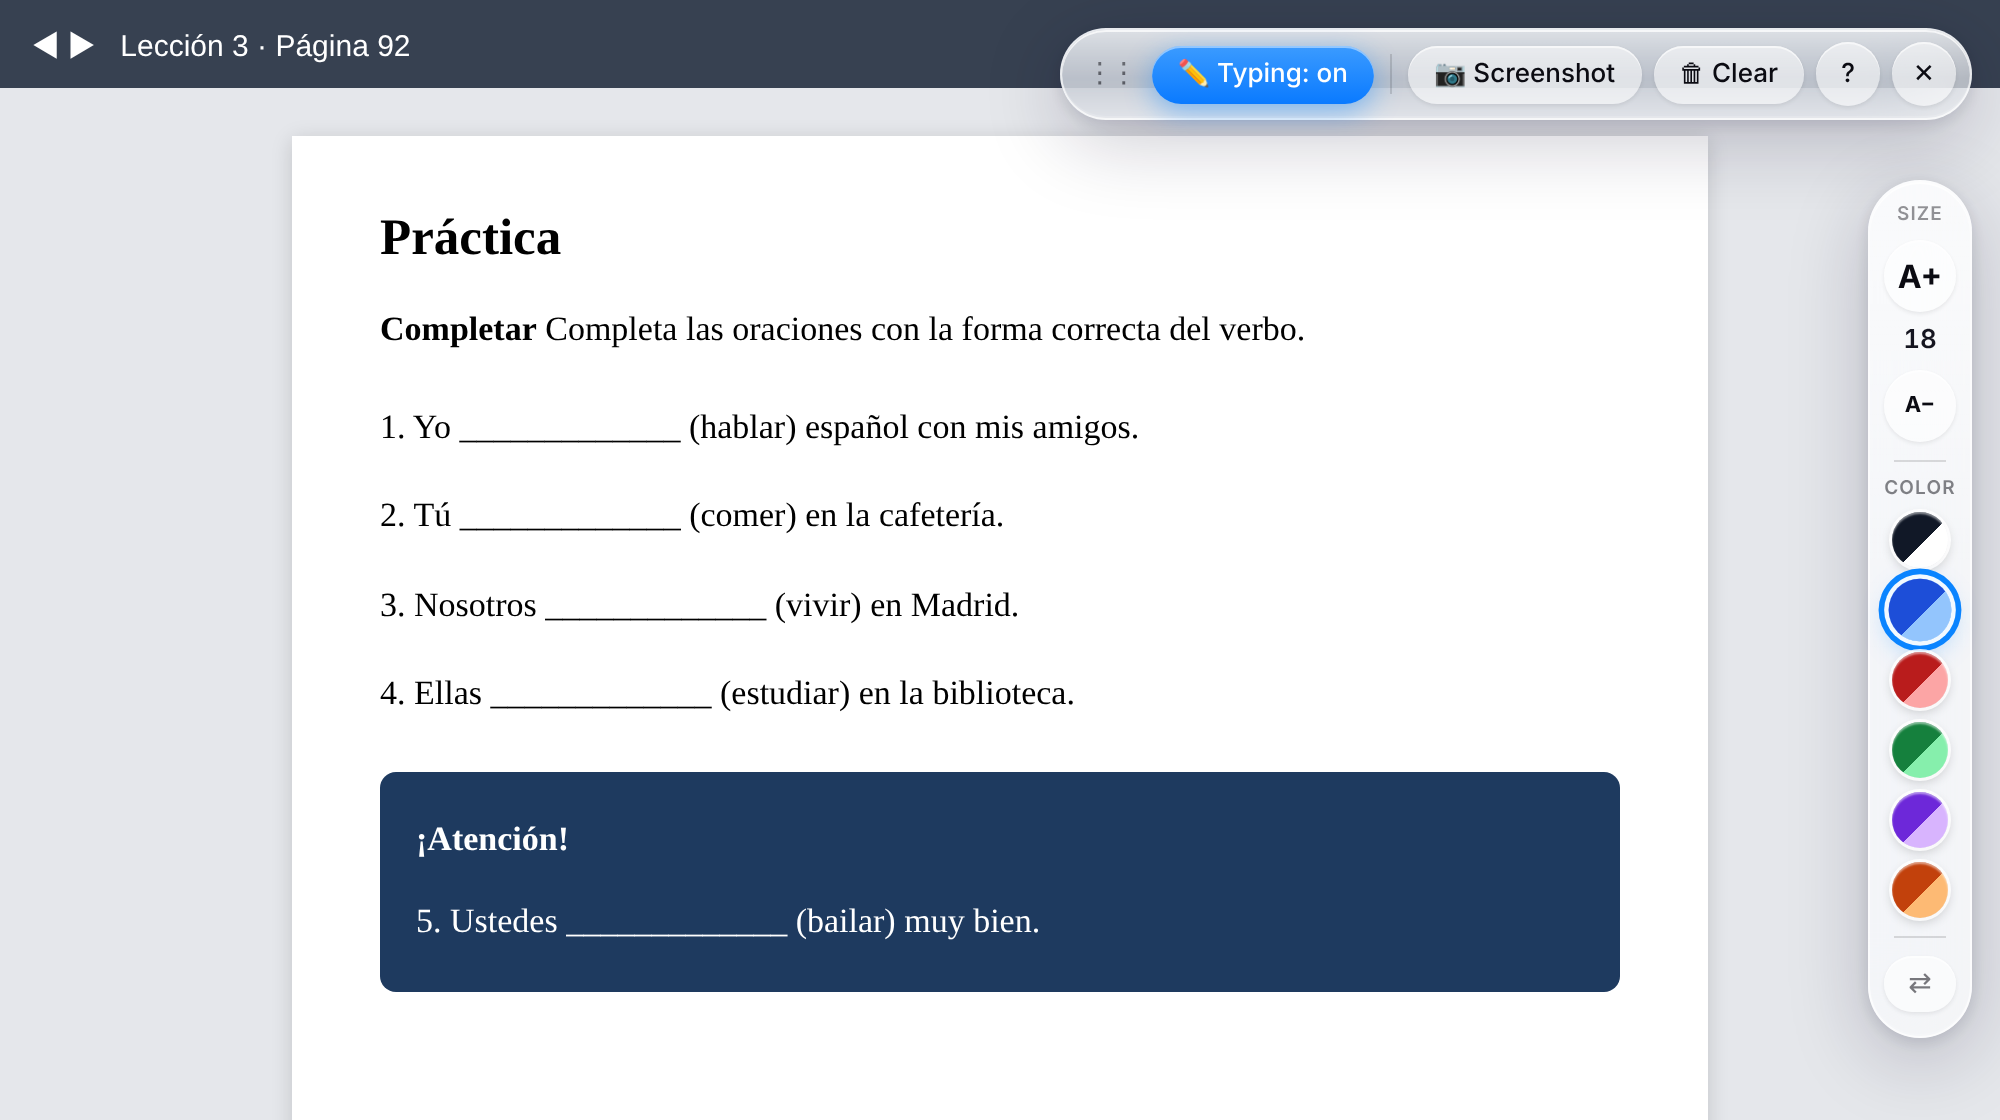
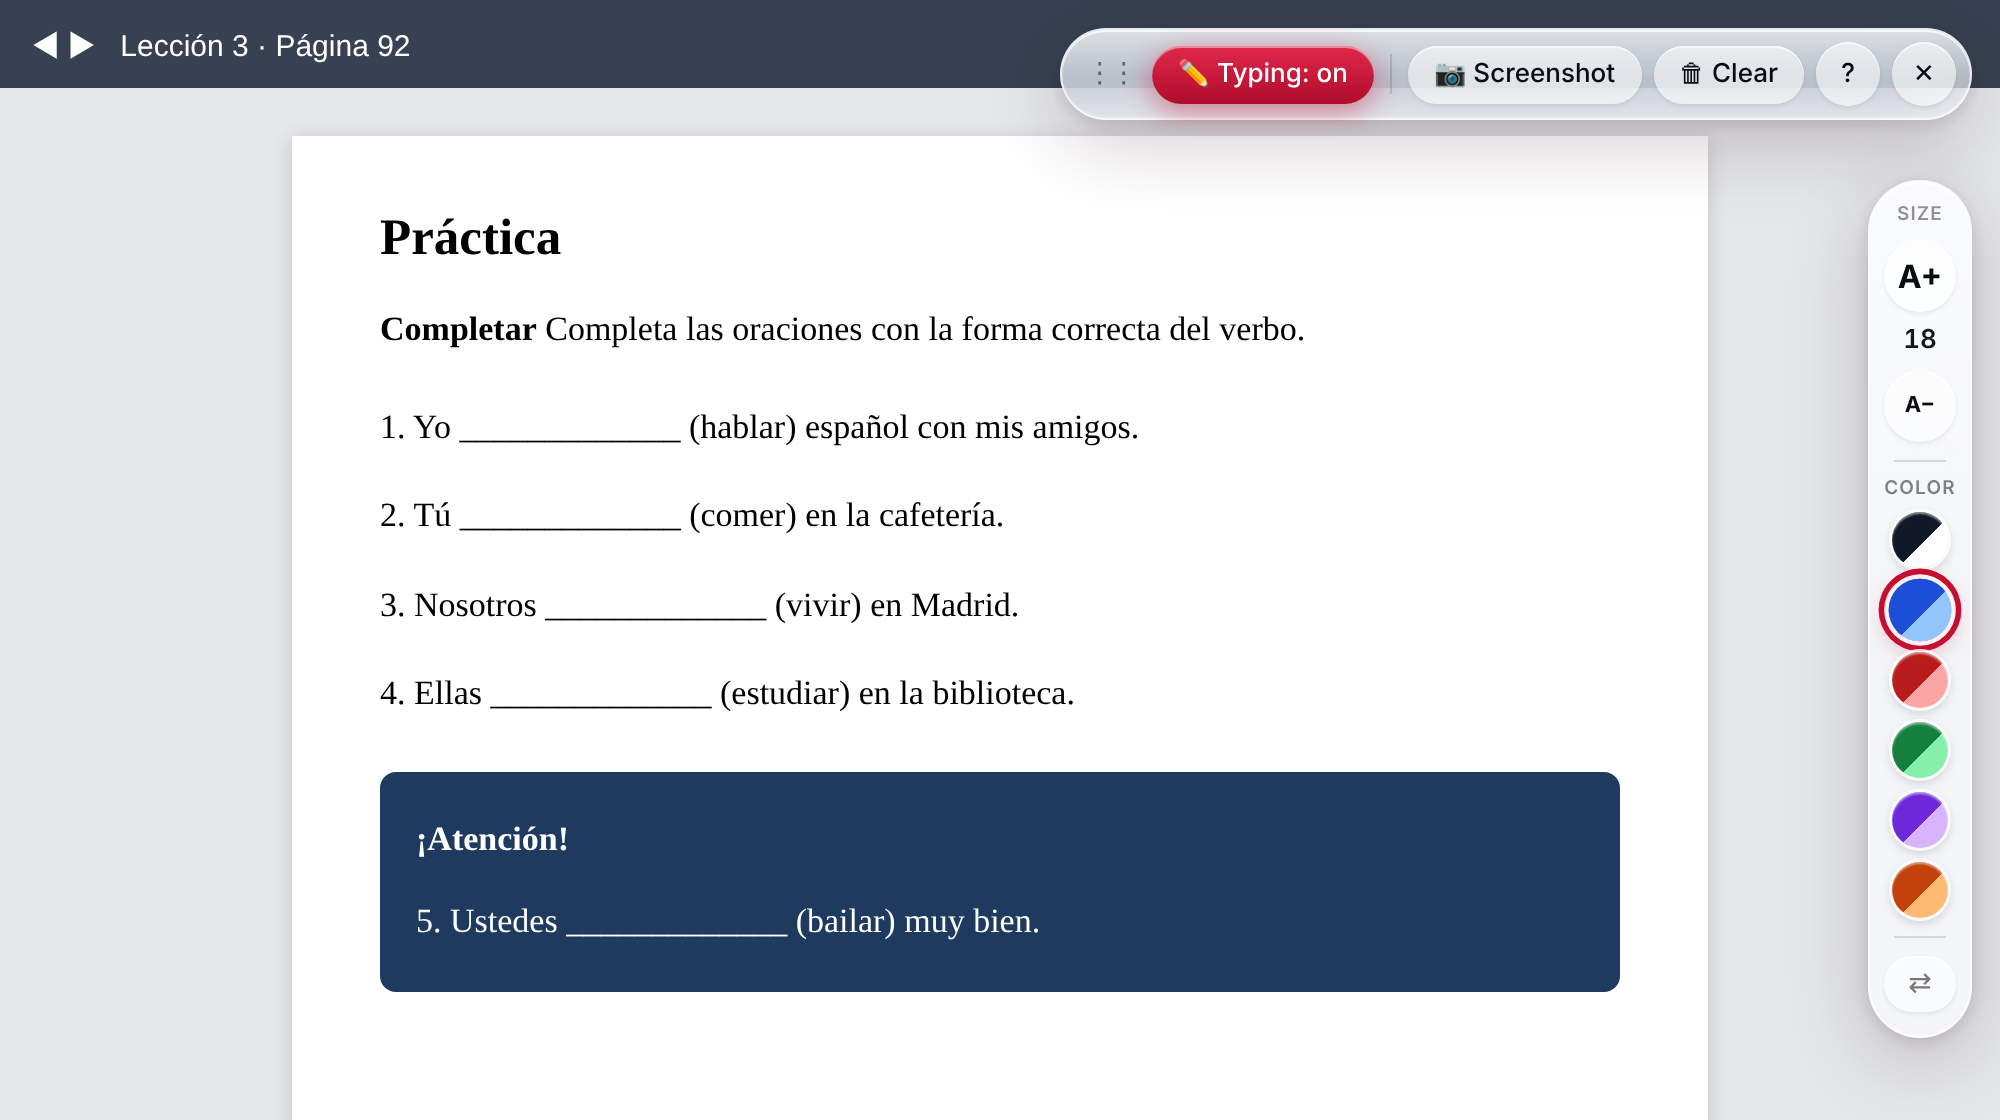
Switch the color scheme to Grove City College red and white
- Icon, toolbar accents, tour ring, buttons and welcome page use red
  (#C60E30) instead of blue/purple gradients
- Move handle is now charcoal so it stays distinct from the red delete
- Welcome page mentions copy or download; README text and screenshots
  updated (callouts are now amber so they stand out from the red UI)

Claude-Session: https://claude.ai/code/session_016ecH6UMAv2iiS5Nwg1RKtw

Changed region(s): [[0.558, 0.0312, 0.713, 0.125], [0.93, 0.5, 0.992, 0.5938]]

diff --git a/extension/content.js b/extension/content.js
@@ -131,8 +131,8 @@
       --ink-soft: rgba(11, 11, 18, .55);
       --chip: rgba(255, 255, 255, .55);
       --chip-hover: rgba(255, 255, 255, .85);
-      --accent: #0a84ff;
-      --shadow: 0 10px 40px rgba(17, 12, 46, .22), 0 2px 8px rgba(17, 12, 46, .12);
+      --accent: #c60e30;
+      --shadow: 0 10px 40px rgba(40, 10, 16, .22), 0 2px 8px rgba(40, 10, 16, .12);
       --font: -apple-system, BlinkMacSystemFont, "SF Pro Text", "Segoe UI", Roboto, system-ui, sans-serif;
     }
     @media (prefers-color-scheme: dark) {
@@ -165,8 +165,8 @@
       transition: color .35s var(--ease), font-size .25s var(--ease), box-shadow .25s var(--ease), text-shadow .35s var(--ease);
     }
     @keyframes pop { from { opacity: 0; transform: scale(.85); filter: blur(3px); } }
-    .typing .note:hover .text { box-shadow: 0 0 0 1px rgba(10, 132, 255, .45); }
-    .note.selected .text { box-shadow: 0 0 0 1.5px var(--accent), 0 0 0 4px rgba(255, 255, 255, .7), 0 4px 14px rgba(10, 132, 255, .25); }
+    .typing .note:hover .text { box-shadow: 0 0 0 1px rgba(198, 14, 48, .45); }
+    .note.selected .text { box-shadow: 0 0 0 1.5px var(--accent), 0 0 0 4px rgba(255, 255, 255, .7), 0 4px 14px rgba(198, 14, 48, .25); }
     .note.probing { opacity: 0 !important; }
     .grip, .del {
       position: absolute; top: -24px; width: 20px; height: 20px; display: grid; place-items: center;
@@ -177,7 +177,7 @@
       opacity: 0; transform: scale(.4) translateY(6px); pointer-events: none;
       transition: opacity .2s var(--ease), transform .4s var(--spring);
     }
-    .grip { left: 0; background: rgba(10, 132, 255, .85); cursor: grab; }
+    .grip { left: 0; background: rgba(44, 44, 50, .85); cursor: grab; }
     .grip:active { cursor: grabbing; }
     .del { left: 24px; background: rgba(255, 59, 48, .88); cursor: pointer; font-size: 13px; }
     .typing .note.selected .grip, .typing .note.selected .del { opacity: 1; transform: none; pointer-events: auto; }
@@ -228,8 +228,8 @@
     .toolbar .drag { cursor: grab; color: var(--ink-soft); padding: 0 3px 0 5px; font-size: 14px; letter-spacing: -2px; }
     .toolbar button { padding: 8px 13px; white-space: nowrap; font-weight: 500; }
     .toolbar button.on {
-      background: linear-gradient(180deg, #3b9bff, #0a7aff); color: #fff;
-      box-shadow: inset 0 1px 0 rgba(255, 255, 255, .45), 0 4px 14px rgba(10, 132, 255, .45);
+      background: linear-gradient(180deg, #e0294b, #b00c2b); color: #fff;
+      box-shadow: inset 0 1px 0 rgba(255, 255, 255, .45), 0 4px 14px rgba(198, 14, 48, .45);
     }
     .toolbar button.icon { width: 32px; height: 32px; padding: 0; }
     .toolbar .sep { width: 1px; height: 20px; background: var(--ink-soft); opacity: .25; margin: 0 2px; }
@@ -257,7 +257,7 @@
     .panel .swatch:hover { transform: scale(1.12); }
     .panel .swatch.active {
       transform: scale(1.12);
-      box-shadow: 0 0 0 2px rgba(255, 255, 255, .95), 0 0 0 4.5px var(--accent), 0 4px 12px rgba(10, 132, 255, .35);
+      box-shadow: 0 0 0 2px rgba(255, 255, 255, .95), 0 0 0 4.5px var(--accent), 0 4px 12px rgba(198, 14, 48, .35);
     }
     .panel .flip { width: 36px; height: 28px; font-size: 14px; color: var(--ink-soft); }
 
@@ -288,8 +288,8 @@
     .shotcard .title button { width: 28px; height: 28px; padding: 0; font-size: 12px; }
     .shotcard .actions { display: flex; gap: 8px; margin-top: 12px; }
     .shotcard .actions button { flex: 1; padding: 10px 12px; font-weight: 600; font-size: 13.5px; }
-    .shotcard .actions button.primary { background: linear-gradient(180deg, #3b9bff, #0a7aff); color: #fff;
-      box-shadow: inset 0 1px 0 rgba(255, 255, 255, .45), 0 4px 14px rgba(10, 132, 255, .4); }
+    .shotcard .actions button.primary { background: linear-gradient(180deg, #e0294b, #b00c2b); color: #fff;
+      box-shadow: inset 0 1px 0 rgba(255, 255, 255, .45), 0 4px 14px rgba(198, 14, 48, .4); }
     .shotcard .actions button.done { background: rgba(52, 199, 89, .9); color: #fff; }
     .shotcard .status { margin: 10px 4px 0; min-height: 1.3em; font: 13px/1.35 var(--font); color: var(--ink-soft); }
     .shotcard .status:empty { display: none; }
@@ -298,12 +298,12 @@
     /* ---------- first-time tour ---------- */
     .tour-ring {
       position: fixed; pointer-events: none; border-radius: 18px;
-      box-shadow: 0 0 0 3px rgba(10, 132, 255, .95), 0 0 0 9px rgba(10, 132, 255, .25), 0 0 34px 8px rgba(10, 132, 255, .35);
+      box-shadow: 0 0 0 3px rgba(198, 14, 48, .95), 0 0 0 9px rgba(198, 14, 48, .25), 0 0 34px 8px rgba(198, 14, 48, .35);
       transition: left .55s var(--spring), top .55s var(--spring), width .55s var(--spring), height .55s var(--spring),
         opacity .3s var(--ease), border-radius .4s var(--ease);
       animation: breathe 2.2s ease-in-out infinite;
     }
-    @keyframes breathe { 50% { box-shadow: 0 0 0 3px rgba(10, 132, 255, .95), 0 0 0 13px rgba(10, 132, 255, .12), 0 0 44px 12px rgba(10, 132, 255, .28); } }
+    @keyframes breathe { 50% { box-shadow: 0 0 0 3px rgba(198, 14, 48, .95), 0 0 0 13px rgba(198, 14, 48, .12), 0 0 44px 12px rgba(198, 14, 48, .28); } }
     .tour-ring.off { opacity: 0; }
     .tour-pop {
       width: min(320px, calc(100vw - 24px)); box-sizing: border-box; padding: 16px 16px 14px;
@@ -319,7 +319,7 @@
     .tour-pop p { margin: 0; font: 14px/1.45 var(--font); }
     .tour-pop p + p { margin-top: 8px; }
     .tour-pop .try { margin-top: 10px; padding: 8px 11px; border-radius: 14px; font: 500 13px/1.4 var(--font);
-      background: rgba(10, 132, 255, .12); color: var(--ink); }
+      background: rgba(198, 14, 48, .12); color: var(--ink); }
     .tour-pop kbd { font: 600 11.5px/1 var(--font); padding: 2px 6px; border-radius: 6px; background: var(--chip);
       box-shadow: inset 0 -1px 0 rgba(0, 0, 0, .15); }
     .tour-pop .dots { display: flex; gap: 5px; margin: 14px 0 12px; }
@@ -329,8 +329,8 @@
     .tour-pop .row { display: flex; align-items: center; gap: 8px; }
     .tour-pop .row .grow { flex: 1; }
     .tour-pop .row button { padding: 8px 14px; font-weight: 600; }
-    .tour-pop .row button.primary { background: linear-gradient(180deg, #3b9bff, #0a7aff); color: #fff;
-      box-shadow: inset 0 1px 0 rgba(255, 255, 255, .45), 0 4px 14px rgba(10, 132, 255, .4); }
+    .tour-pop .row button.primary { background: linear-gradient(180deg, #e0294b, #b00c2b); color: #fff;
+      box-shadow: inset 0 1px 0 rgba(255, 255, 255, .45), 0 4px 14px rgba(198, 14, 48, .4); }
     .tour-pop .row button.link { background: none; box-shadow: none; color: var(--ink-soft); padding: 8px 6px; font-weight: 500; }
     .tour-pop .row button.link:hover { color: var(--ink); transform: none; }
 
@@ -542,8 +542,8 @@
       place: 'bottom',
       title: L('Edit, move or delete', 'Editar, mover o borrar'),
       body: L(
-        '<p>Click your text to change it.</p><p>Drag the blue <b>✥</b> handle to move it, or click the red <b>×</b> to delete it.</p><p>Your text sticks to the page when you scroll or zoom.</p>',
-        '<p>Haga clic en su texto para cambiarlo.</p><p>Arrastre el círculo azul <b>✥</b> para moverlo, o pulse la <b>×</b> roja para borrarlo.</p><p>El texto se queda pegado a la página al desplazarse o ampliar.</p>'
+        '<p>Click your text to change it.</p><p>Drag the dark gray <b>✥</b> handle to move it, or click the red <b>×</b> to delete it.</p><p>Your text sticks to the page when you scroll or zoom.</p>',
+        '<p>Haga clic en su texto para cambiarlo.</p><p>Arrastre el círculo gris oscuro <b>✥</b> para moverlo, o pulse la <b>×</b> roja para borrarlo.</p><p>El texto se queda pegado a la página al desplazarse o ampliar.</p>'
       ),
     },
     {

diff --git a/extension/welcome.css b/extension/welcome.css
@@ -1,13 +1,13 @@
 :root {
   --ink: #0b0b12; --ink-soft: rgba(11, 11, 18, .62);
   --glass: rgba(255, 255, 255, .62); --edge: rgba(255, 255, 255, .75);
-  --bg: #eef0ff; --accent: #0a84ff;
+  --bg: #f8f3f4; --accent: #c60e30;
   --spring: cubic-bezier(.2, .9, .25, 1.15); --ease: cubic-bezier(.25, .8, .25, 1);
   font-family: -apple-system, BlinkMacSystemFont, "SF Pro Text", "Segoe UI", Roboto, system-ui, sans-serif;
   color-scheme: light dark;
 }
 @media (prefers-color-scheme: dark) {
-  :root { --ink: #f5f5f7; --ink-soft: rgba(245, 245, 247, .66); --glass: rgba(40, 40, 50, .55); --edge: rgba(255, 255, 255, .2); --bg: #0d0d18; }
+  :root { --ink: #f5f5f7; --ink-soft: rgba(245, 245, 247, .66); --glass: rgba(40, 40, 50, .55); --edge: rgba(255, 255, 255, .2); --bg: #150b0d; }
 }
 * { box-sizing: border-box; }
 body {
@@ -15,22 +15,22 @@ body {
   background: var(--bg); color: var(--ink); overflow-x: hidden;
 }
 .blob { position: fixed; border-radius: 50%; filter: blur(70px); opacity: .7; z-index: 0; animation: drift 18s ease-in-out infinite alternate; }
-.b1 { width: 460px; height: 460px; background: #4f8bff; top: -120px; left: -80px; }
-.b2 { width: 420px; height: 420px; background: #b45cff; bottom: -140px; right: -60px; animation-delay: -6s; }
-.b3 { width: 300px; height: 300px; background: #ff5fc8; top: 40%; left: 55%; opacity: .45; animation-delay: -12s; }
+.b1 { width: 460px; height: 460px; background: #c60e30; top: -120px; left: -80px; }
+.b2 { width: 420px; height: 420px; background: #8f0a23; bottom: -140px; right: -60px; animation-delay: -6s; }
+.b3 { width: 300px; height: 300px; background: #f2a9b5; top: 40%; left: 55%; opacity: .5; animation-delay: -12s; }
 @keyframes drift { to { transform: translate(60px, 40px) scale(1.1); } }
 
 .card {
   position: relative; z-index: 1; width: min(640px, 100%); padding: 36px 36px 32px; border-radius: 34px;
   background: var(--glass); border: 1px solid var(--edge);
   backdrop-filter: blur(30px) saturate(1.8); -webkit-backdrop-filter: blur(30px) saturate(1.8);
-  box-shadow: 0 30px 80px rgba(30, 20, 90, .25), inset 0 1px 0 rgba(255, 255, 255, .8);
+  box-shadow: 0 30px 80px rgba(90, 10, 25, .22), inset 0 1px 0 rgba(255, 255, 255, .8);
   animation: rise .8s var(--spring) both;
 }
 .card::before { content: ""; position: absolute; inset: 0; border-radius: inherit; pointer-events: none;
   background: linear-gradient(180deg, rgba(255, 255, 255, .5), rgba(255, 255, 255, 0) 40%); mix-blend-mode: soft-light; }
 @keyframes rise { from { opacity: 0; transform: translateY(24px) scale(.97); filter: blur(8px); } }
-.logo { display: block; filter: drop-shadow(0 10px 24px rgba(80, 60, 220, .35)); animation: rise .8s var(--spring) .1s both; }
+.logo { display: block; filter: drop-shadow(0 10px 24px rgba(150, 10, 35, .35)); animation: rise .8s var(--spring) .1s both; }
 h1 { font-size: 28px; line-height: 1.2; margin: 18px 0 8px; letter-spacing: -.01em; }
 .lead { font-size: 16px; line-height: 1.5; color: var(--ink-soft); margin: 0 0 22px; }
 .steps { list-style: none; margin: 0 0 24px; padding: 0; display: grid; gap: 12px; }
@@ -45,12 +45,12 @@ h1 { font-size: 28px; line-height: 1.2; margin: 18px 0 8px; letter-spacing: -.01
 .steps li:nth-child(3) { animation-delay: .34s; }
 .num {
   flex: none; width: 30px; height: 30px; border-radius: 50%; display: grid; place-items: center;
-  font-weight: 700; color: #fff; background: linear-gradient(180deg, #3b9bff, #0a7aff);
-  box-shadow: 0 4px 12px rgba(10, 132, 255, .4), inset 0 1px 0 rgba(255, 255, 255, .4);
+  font-weight: 700; color: #fff; background: linear-gradient(180deg, #e0294b, #b00c2b);
+  box-shadow: 0 4px 12px rgba(198, 14, 48, .4), inset 0 1px 0 rgba(255, 255, 255, .4);
 }
 .steps h2 { font-size: 16px; margin: 4px 0 4px; }
 .steps p { margin: 0; font-size: 14.5px; line-height: 1.5; color: var(--ink-soft); }
-.btnicon { margin-top: 8px; border-radius: 9px; box-shadow: 0 4px 12px rgba(80, 60, 220, .3); }
+.btnicon { margin-top: 8px; border-radius: 9px; box-shadow: 0 4px 12px rgba(150, 10, 35, .3); }
 
 .toggle { display: flex; align-items: center; gap: 12px; font-size: 15px; cursor: pointer; margin-bottom: 22px; user-select: none; }
 .toggle input { position: absolute; opacity: 0; }
@@ -68,10 +68,10 @@ h1 { font-size: 28px; line-height: 1.2; margin: 18px 0 8px; letter-spacing: -.01
 
 .cta {
   display: inline-block; padding: 13px 22px; border-radius: 999px; text-decoration: none; font-weight: 600; font-size: 15px;
-  color: #fff; background: linear-gradient(180deg, #3b9bff, #0a7aff);
-  box-shadow: 0 8px 24px rgba(10, 132, 255, .45), inset 0 1px 0 rgba(255, 255, 255, .45);
+  color: #fff; background: linear-gradient(180deg, #e0294b, #b00c2b);
+  box-shadow: 0 8px 24px rgba(198, 14, 48, .45), inset 0 1px 0 rgba(255, 255, 255, .45);
   transition: transform .35s var(--spring), box-shadow .3s var(--ease);
 }
-.cta:hover { transform: translateY(-2px); box-shadow: 0 12px 30px rgba(10, 132, 255, .5), inset 0 1px 0 rgba(255, 255, 255, .45); }
+.cta:hover { transform: translateY(-2px); box-shadow: 0 12px 30px rgba(198, 14, 48, .5), inset 0 1px 0 rgba(255, 255, 255, .45); }
 .cta:active { transform: scale(.96); }
 @media (prefers-reduced-motion: reduce) { *, *::before, *::after { animation: none !important; transition: none !important; } }

diff --git a/extension/welcome.js b/extension/welcome.js
@@ -1,7 +1,7 @@
 // Welcome page shown once, right after installing.
 const ES = {
   title: 'VHL Text Overlay está instalada 🎉',
-  lead: 'Escriba sobre las páginas de su libro de VHL y copie una imagen de su trabajo. Tres pasos rápidos:',
+  lead: 'Escriba sobre las páginas de su libro de VHL y copie o descargue una imagen de su trabajo. Tres pasos rápidos:',
   s1t: 'Fije el botón',
   s1: 'Arriba a la derecha de Chrome, haga clic en la pieza de puzle 🧩 y luego en la chincheta 📌 junto a <b>VHL Text Overlay</b>. Este botón se quedará allí:',
   s2t: 'Abra su libro',

diff --git a/extension/welcome.html b/extension/welcome.html
@@ -12,7 +12,7 @@
   <main class="card">
     <img class="logo" src="icons/icon128.png" alt="" width="88" height="88">
     <h1 data-i18n="title">VHL Text Overlay is installed 🎉</h1>
-    <p class="lead" data-i18n="lead">Type on your VHL textbook pages, then copy a picture of your work. Three quick steps:</p>
+    <p class="lead" data-i18n="lead">Type on your VHL textbook pages, then copy or download a picture of your work. Three quick steps:</p>
 
     <ol class="steps">
       <li>

diff --git a/README.md b/README.md
@@ -107,10 +107,10 @@ To see it again later, click the **?** button on the top bar.
 - Press **Enter** to start a new line in the same spot.
 - Press **Esc** (top-left key on your keyboard) when you're done with a piece of writing.
 - **To fix something:** click your writing and type or delete.
-- **To move it:** click your writing, then drag the small blue **✥** tab just above it.
+- **To move it:** click your writing, then drag the small dark gray **✥** tab just above it.
 - **To erase it:** click your writing, then click the small red **×** above it.
 
-<img src="docs/images/use-3-move-delete-en.png" width="420" alt="The blue move tab and red delete button above a piece of writing">
+<img src="docs/images/use-3-move-delete-en.png" width="420" alt="The gray move tab and red delete button above a piece of writing">
 
 Your writing stays in place on the page, even if you scroll up and down or zoom in.
 
@@ -166,7 +166,7 @@ You can move the top bar by dragging the dots **⋮⋮** at its left end.
 
    Click **✕** to close the card.
 
-The toolbars and the small blue and red tabs are left out of the picture. The picture only
+The toolbars and the small gray and red tabs are left out of the picture. The picture only
 includes what you can see on the screen, so scroll first to show the part you want.
 
 ---
@@ -329,11 +329,11 @@ recorrido aparece en español si Chrome está en español.)
 - Pulse **Intro** para empezar una línea nueva en el mismo sitio.
 - Pulse **Esc** (tecla de arriba a la izquierda) al terminar un texto.
 - **Para corregir:** haga clic en su texto y escriba o borre.
-- **Para moverlo:** haga clic en su texto y arrastre la pequeña pestaña azul **✥** que
+- **Para moverlo:** haga clic en su texto y arrastre la pequeña pestaña gris oscuro **✥** que
   aparece encima.
 - **Para borrarlo:** haga clic en su texto y luego en la pequeña **×** roja de encima.
 
-<img src="docs/images/use-3-move-delete-es.png" width="420" alt="La pestaña azul para mover y el botón rojo para borrar encima de un texto">
+<img src="docs/images/use-3-move-delete-es.png" width="420" alt="La pestaña gris para mover y el botón rojo para borrar encima de un texto">
 
 El texto se queda en su sitio en la página, aunque se desplace hacia arriba o abajo o
 amplíe la página.
@@ -390,7 +390,7 @@ Puede mover la barra de arriba arrastrando los puntos **⋮⋮** de su lado izqu
 
    Pulse **✕** para cerrar la tarjeta.
 
-Las barras de botones y las pestañas azules y rojas no salen en la imagen. La imagen solo
+Las barras de botones y las pestañas grises y rojas no salen en la imagen. La imagen solo
 incluye lo que se ve en la pantalla, así que desplácese primero hasta la parte que quiera.
 
 ---
